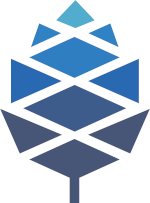
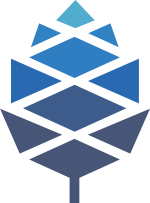
show off how to get a blit from transparency

diff --git a/src/canvas.rs b/src/canvas.rs
@@ -85,6 +85,20 @@ impl Canvas {
         return vec![true; self.width * self.height];
     }
 
+    pub fn create_blitmap_from_alpha(&self) -> Vec<bool> {
+        let mut b = vec![false; self.width * self.height];
+        for x in 0..self.width {
+            for y in 0..self.height {
+                let b_index = (y * self.width) + x;
+                let cur_index = b_index * self.bytespp;
+                if self.pixels[cur_index + 3] > 0 {
+                    b[b_index] = true;
+                }
+            }
+        }
+        b
+    }
+
     pub fn blit_canvas(
         &mut self,
         canvas: &Canvas,

diff --git a/examples/blit_image.rs b/examples/blit_image.rs
@@ -4,12 +4,7 @@ fn main() -> Result<(), Box<dyn Error>> {
     let img_pine = load_image("examples/images/pine.png")?;
 
     // create a dithered blit mask
-    let mut dither = img_pine.create_blitmap();
-    for x in 0..dither.len() {
-        if (x /4 ) % 2 == 0 {
-            dither[x] = false;
-        }
-    }
+    let mut dither = img_pine.create_blitmap_from_alpha();
 
     Config::auto()?.run(move |canvas, swipe, _delta_time| {
         if swipe.is_some() {
